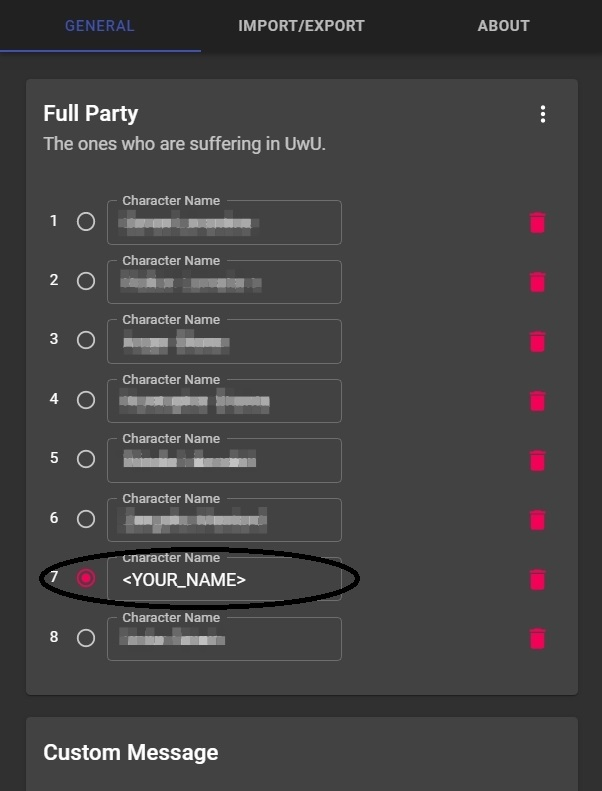
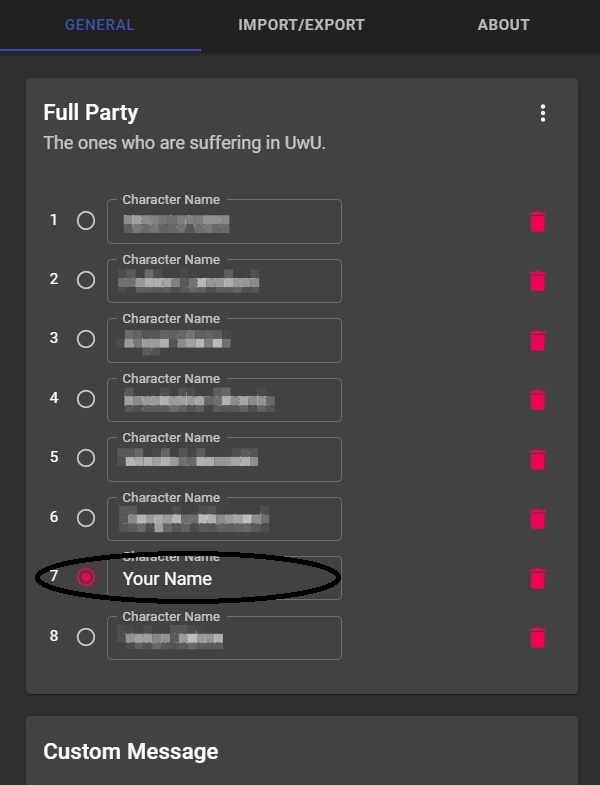
hotfix readme

diff --git a/README.md b/README.md
@@ -90,7 +90,7 @@ Finally, click on `Save` button.
 ## How to test it
 Put these lines in a macro and change the names below to members within the party. then run the macro.
 
-`/e #-135-<YOUR_NAME>`\
+`/e #-135-YOUR_NAME`\
 `/e #-135-Alishba Holt`\
 `/e #-135-Tobey Fitzgerald`
 
